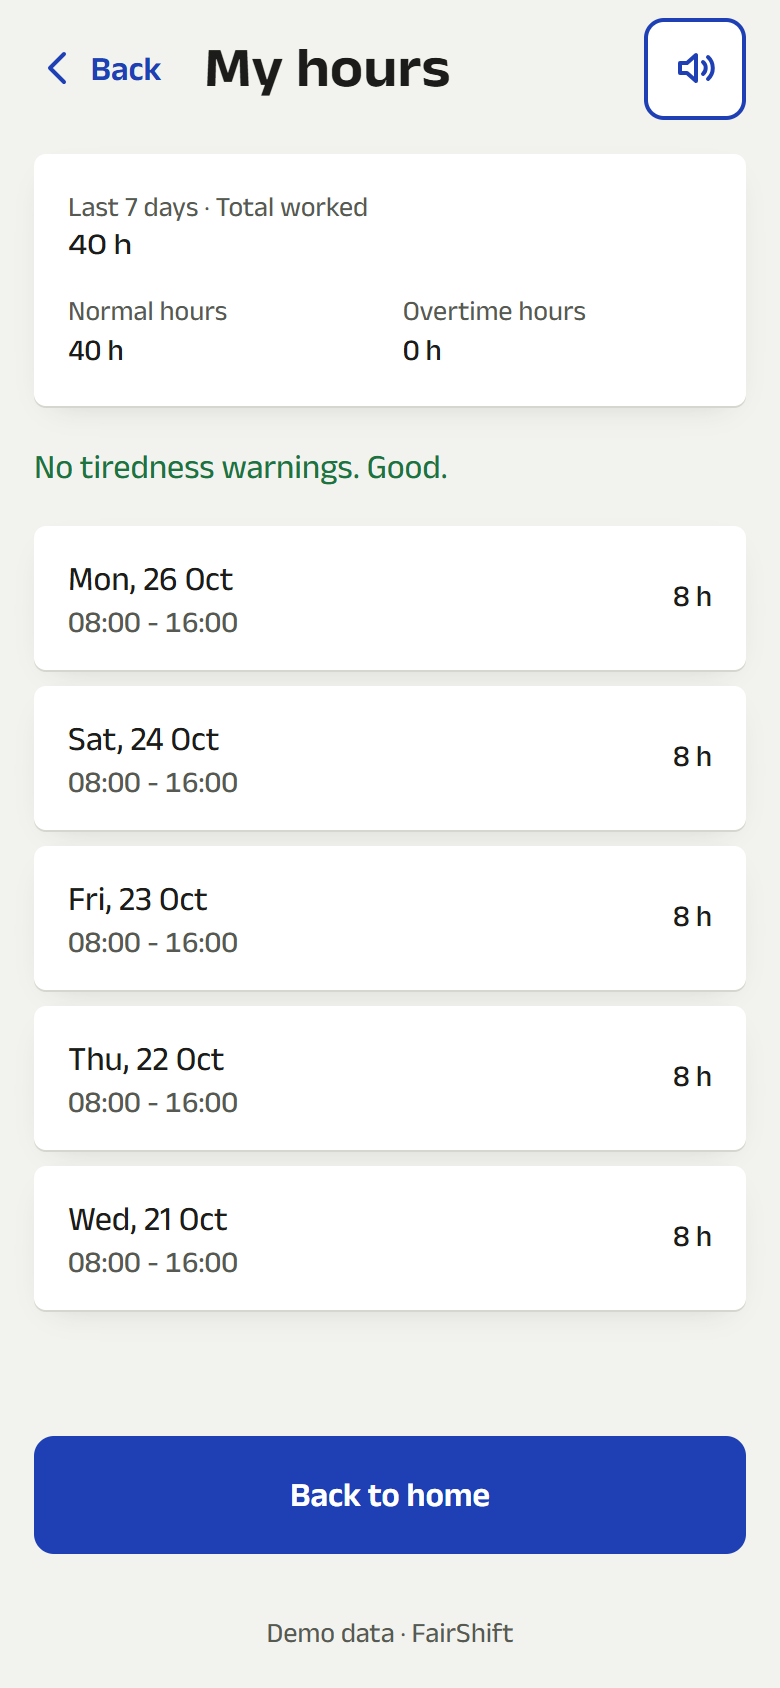
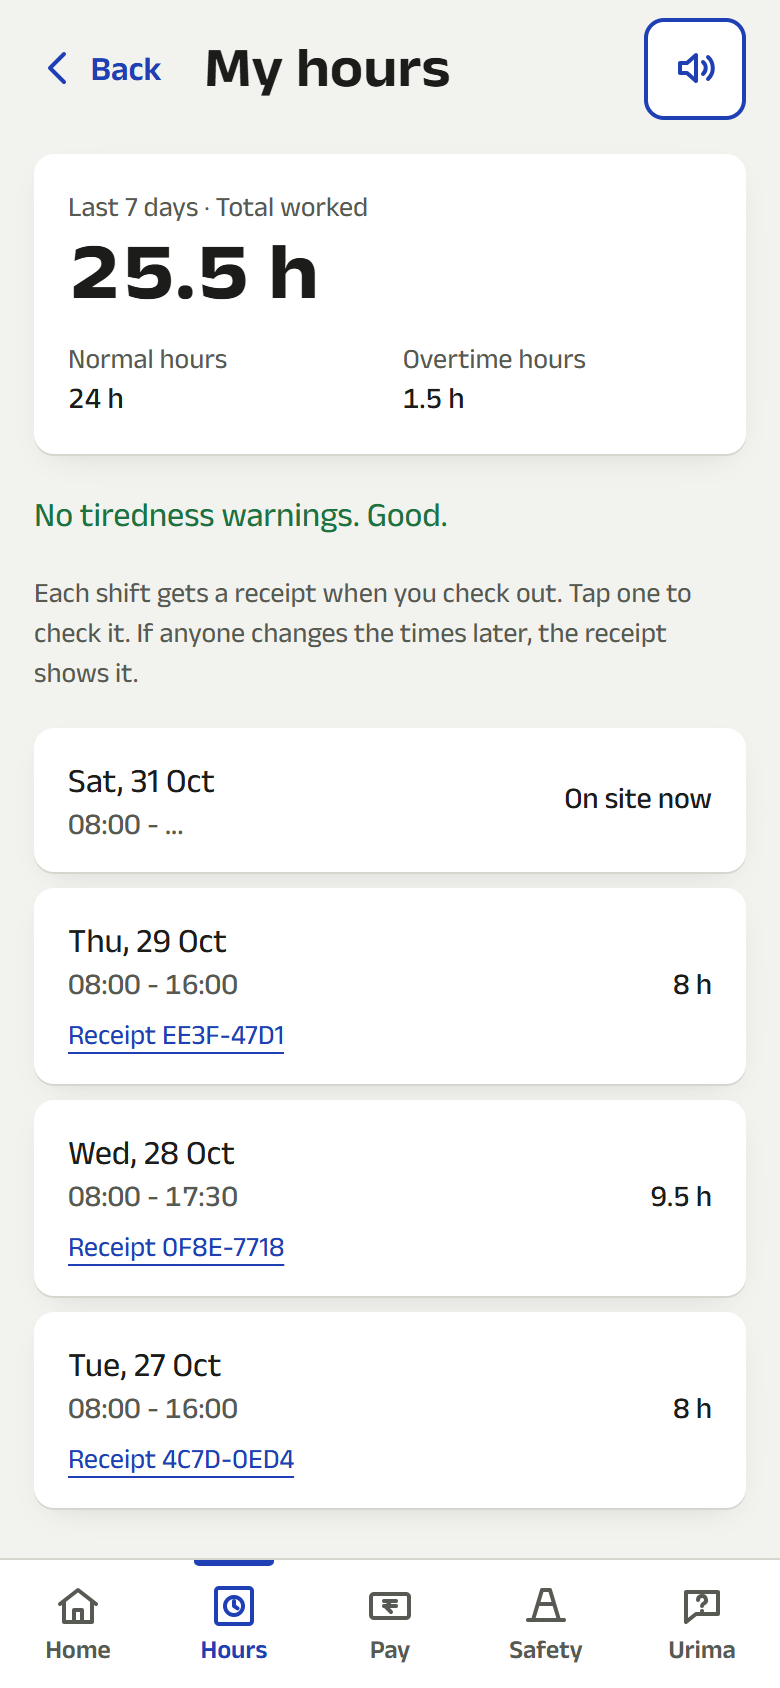
Fresh screenshots of the current interface and fuller key prompts
Every README screenshot is retaken from a production build with seeded
demo data: the worker app in Hindi, Tamil and English at 390 px, and the
supervisor console, landing page and gate kiosk on desktop.

prompts.md now covers the finals prompts and quotes the build briefs given
to the coding agent, with links to their full text in docs/build.

Changed region(s): [[0.0308, 0.4313, 0.9538, 0.9858], [0.0308, 0.1232, 0.9231, 0.4005]]

diff --git a/docs/submission/prompts.md b/docs/submission/prompts.md
@@ -1,20 +1,11 @@
 # Key prompts
 
-These are the prompts that shaped FairShift, in the order they were given. They are quoted as typed (some in Hinglish, with an English gloss), then condensed into what each one changed in the app. The full build briefs written from them are in [`docs/build/`](../build/).
+FairShift was built from two kinds of prompts:
 
-## 1. Research before building
+1. **What I typed.** Short prompts, often in Hinglish, quoted as typed with an English gloss. Each is followed by what it changed in the app.
+2. **Build briefs for the coding agent.** Long, precise briefs written from those prompts and given to the Antigravity agent (`agy`), which split each one across parallel subagents. Excerpts are in [section 7](#7-build-briefs-given-to-the-antigravity-agent); the full briefs are in [`docs/build/`](../build/).
 
-> "search the entire github for promptwars, and jo bhi team agar win ki ho, ya best project ho"
-> _(find every PromptWars team that won, or the best projects)_
-
-**What it changed:** before any code, we studied how earlier winners were scored. That produced the six-criteria map in `docs/promptwars-winners-research.md`: code quality, security, efficiency, testing, accessibility and problem alignment.
-
-> "docs mei pdf daala hai wo bhi dekh le"
-> _(also read the PDFs in docs)_
-
-**What it changed:** the problem statement and the submission guide became the spec, covering worker and admin UIs, 3+ features and 2+ sectors.
-
-## 2. Decide the architecture and the UI first
+## 1. Decide the architecture and the UI first
 
 > "pehle plan kar, mujhe architectural decision le, and build phases ka decision le, ui ka le. then we would build it. google cloud run pe kya deploy ho skta, full nextjs with workers ho sakte hai, ya hum better backend banaye"
 > _(plan first: decide the architecture, the build phases and the UI, then build; can a full Next.js app run on Cloud Run, or do we need a separate backend?)_
@@ -26,12 +17,12 @@ These are the prompts that shaped FairShift, in the order they were given. They 
 
 **What it changed:** the "honest muster roll" design system in `DESIGN.md` and `docs/design-system.md`: rubber stamps, a register grid, Anek type for Indic scripts, a ban list of generic AI-UI patterns, and no animation library on worker phones.
 
-## 3. Build with agents in parallel
+## 2. Build with agents in parallel
 
 > "/agy ko build krne ka poora kaam dede ... usko boldena ki subagents se kaam karwa le"
 > _(give the whole build to the Antigravity agent and tell it to split the work across subagents)_
 
-**What it changed:** the spec was turned into a build brief with file ownership per agent (`docs/build/AGY_TASK.md`, `OWNERSHIP.md`), so parallel agents never edited the same files.
+**What it changed:** the spec became a build brief with file ownership per agent (`docs/build/AGY_TASK.md`, `OWNERSHIP.md`; see 7.1 and 7.2), so parallel agents never edited the same files.
 
 > "nice, merge everything, check for bugs and errors and do testing and complete the project"
 
@@ -42,19 +33,24 @@ These are the prompts that shaped FairShift, in the order they were given. They 
 - a rate-limit IP spoof
 - overtime counted per ISO week (it had shown 88 h of overtime)
 
-## 4. Improve from the evaluator's feedback
+## 3. Improve from the evaluator's feedback
 
 > "bhai hum 2nd aaye hai. aur better karo"
 > _(we came 2nd; make it better)_
 
-**What it changed:** the per-criterion scores showed Code Quality at 89. `docs/build/AGY_TASK_ROUND2.md` was written to raise only that criterion, without changing behaviour: remove the duplicate REST layer, add strict lint rules and Prettier, and split services from views. Attempt 2 scored **97.15** and ranked **#1**.
+**What it changed:** the per-criterion scores showed Code Quality at 89. A brief for `agy` (7.3) raised only that criterion, without changing behaviour: remove the duplicate REST layer, add strict lint rules and Prettier, and split services from views. Attempt 2 scored **97.15** and ranked **#1**.
 
-## 5. Make it real for the worker
+## 4. Make it real for the worker
 
 > "aur aisa app bana do, ki agar offline bhi hojaye laboru, tab bhi kaam hojaye, and jaise hi net aaye, sab server pe chala jae"
 > _(make it work even when the labourer goes offline, and send everything to the server as soon as the network is back)_
 
-**What it changed:** an IndexedDB outbox. Queued actions keep their original capture time, the server checks it (24 h maximum age, 2-minute clock skew), the QR code is verified at the capture time, and client ids make replays idempotent (`docs/build/AGY_TASK_OFFLINE.md`).
+**What it changed:** an IndexedDB outbox, built from the offline brief (7.4):
+
+- Queued actions keep their original capture time.
+- The server checks that time: at most 24 h old, at most 2 minutes of clock skew.
+- The QR code is verified at the capture time.
+- Client ids make replays idempotent.
 
 > "app ki pwa bana de, logo bana de ... and mobile mei add to homescreen ka button bhi dede"
 > _(make it a PWA with a logo and an add-to-home-screen button)_
@@ -64,22 +60,158 @@ These are the prompts that shaped FairShift, in the order they were given. They 
 > "ai chatbot kaha hai app mei??"
 > _(where is the AI chatbot in the app?)_
 
-**What it changed:** "Ask FairShift" (since renamed Urima). It was deliberately not a free-form chatbot: it is grounded in tools that cannot read anyone else's data (see "Urima" in the README).
+**What it changed:** "Ask FairShift", since renamed Urima. It is deliberately not a free-form chatbot: it is grounded in tools that cannot read anyone else's data (see "Urima" in the README).
 
-## 6. Finals: production-ready for a human panel
+## 5. Finals: production-ready for a human panel
 
 > "first of all gather some context about evaluation from previous chats. do some more research and create a better version of this app. i wanna win and standout. write the best code, with the best test, security, efficiency all those stuff."
 
-**What it changed** (`docs/finals-plan.md`):
+**What it changed** (`docs/finals-plan.md`, P1 to P6):
 
 - **Typed errors:** `AppError` codes replaced string matching, and internals no longer reach the browser.
 - **Validation:** a zod-validated environment and tighter input schemas.
 - **Error pages:** boundaries, a 404 page, loading states and `/api/health`.
-- **Urima (then "Ask FairShift"):** for workers and supervisors, with Gemini function calling, a rule-based fallback in three languages, a circuit breaker and a briefing cache.
+- **Urima:** an assistant for workers and supervisors, with Gemini function calling, a rule-based fallback in three languages, a circuit breaker and a briefing cache.
 - **Efficiency:** the supervisor overview went from about three full data loads per request to one.
 - **Bug fixes:**
   - The offline banner was server-rendered on every worker page.
   - Offline check-out replays lost their original time.
   - The fresh-clone build needed a secret.
-- **Testing:** coverage widened from the rule engines to all server code (361 tests, 93% statements), with the jsdom and node projects split.
+- **Testing:** coverage widened from the rule engines to all server code, with the jsdom and node projects split.
 - **Delivery:** `SECURITY.md`, Docker, CodeQL, Dependabot and a rewritten README.
+
+## 6. Finals: code quality, protection for the worker, and the interface
+
+> "they would still use the ai to score us. so based on the 6 fields, have you touched 100% in all? maybe? our lowest was the code quality."
+
+**What it changed:**
+
+- The console views were split into smaller modules.
+- Repositories got full types.
+- One shared severity scale is used everywhere.
+- Record ids became UUIDs.
+
+**Worker-protection features** were added in the same phase (`docs/finals-plan.md`, P7 to P10):
+
+- Workers can raise a pay question. It closes only when both sides agree, and there is a deadline for the employer to answer.
+- Overtime rules are versioned, with a legal floor of 2×.
+- A "wages paid" record is checked against the payslip.
+- Each shift is sealed with a signed receipt that anyone can verify.
+- When the employer misses the deadline, the worker gets a printable letter to the labour office in English, Hindi or Tamil. It cites the Code on Wages and lists the shifts with their receipt codes.
+
+> "review all the app screenshot and think if our UI is best or not? i think we need an upgrade"
+
+**What it changed** (P11):
+
+- **Worker app:**
+  - A bottom tab bar.
+  - A home screen built around today's shift: a ticket with a live clock, a "waiting for you" list and a 7-day muster strip.
+- **Console:**
+  - Opens with a "Needs action" list.
+  - The navigation rail is grouped.
+  - Pay is split into tabs.
+- **Landing:** real product screenshots.
+- **Fixes:**
+  - A hydration error.
+  - Phone-number boxes that wrapped at 390 px.
+
+> "also we have to make a video of our project. so you make a reel or our project"
+
+**What it changed:** a short demo video of the worker app in Hindi and Tamil and of the supervisor console, captured from the running app.
+
+> "vercel pe sab live krde, single commit ... and logically soch ke"
+> _(make everything live on Vercel, in a single commit, and think it through)_
+
+**What it changed:** the release was checked, committed and deployed. The worker screens now stream into a skeleton, so moving between them never blocks on the server.
+
+## 7. Build briefs given to the Antigravity agent
+
+Each brief below was given to `agy` as its prompt. Every brief:
+
+- names the files each subagent owns;
+- lists hard rules (no installs, commits, deploys or secrets);
+- ends with a definition of done that the agent had to run and report.
+
+The quotes are excerpts; the full text is linked.
+
+### 7.1 Build FairShift end to end: [`AGY_TASK.md`](../build/AGY_TASK.md)
+
+> You are the lead engineer. **Use your subagents / parallel agents to split the work** (see section 6). You integrate and verify their output. Every decision below is already MADE. Do not re-open it. Where something is truly unspecified, choose the option that scores best on the six AI-evaluator criteria (section 1), and note it in `docs/BUILD_PROGRESS.md`.
+>
+> **Concretely:**
+>
+> - Every number shown comes from pure, unit-tested domain functions, never from the LLM.
+> - The app works fully with **no cloud credentials** (in-memory data + deterministic AI fallbacks).
+> - No secret, key or credential anywhere in the repo.
+> - Every PS requirement is visibly met and named in the README.
+>
+> **No fake data shown as real.** Seed data is labelled "Demo data". No count-up animations.
+>
+> Agree the shared types (`src/shared/types.ts`) and the repo interface **before** fanning out, so that C and D can code against them.
+>
+> If you sense you are running low on budget, **write the progress file first**, so the orchestrator can resume.
+
+Sections:
+
+- the fixed stack
+- the folder layout
+- the domain engines, with at least 90% coverage
+- the worker app at 360 px
+- the admin console and the landing page
+- the design ban list
+- a five-subagent split (domain, data/services/auth/AI, worker UI, admin UI, infra/docs)
+- the definition of done: typecheck, lint, tests with coverage, build, and a repo under 10 MB
+
+The stack in this brief was Cloud Run, Firestore and Vertex AI. The app later moved to Vercel, MongoDB Atlas and a Gemini API key.
+
+### 7.2 Parallel ownership: [`OWNERSHIP.md`](../build/OWNERSHIP.md)
+
+> Three agents work in the same working tree at the same time. **Only edit files you own.** If you need something from a file you do not own, read it and code against it. Do not edit it.
+>
+> **Data access from UI:** pages use **Server Components + Server Actions** that call `src/server/services/*`.
+>
+> **Shared UI primitives:** Claude W builds `src/components/ui/*` (`Stamp`, `Button`, `ReadAloud`, `PinPad`, `Tile`) **first**. Claude A imports them and does not fork them.
+
+### 7.3 Raise Code Quality without regressing anything: [`AGY_TASK_ROUND2.md`](../build/AGY_TASK_ROUND2.md)
+
+> An AI evaluator scored it **96.94/100** [...] The next attempt **replaces** this score. So:
+>
+> - **Do not add features.**
+> - **Do not change behaviour, numbers or UI looks.**
+> - **Do not touch performance-sensitive code paths** beyond what is listed.
+>
+> The goal is cleaner, more consistent, more maintainable code, and fixing the small known security and accessibility gaps.
+>
+> **Use 4 parallel subagents.** Each owns the listed files; do not edit another subagent's files. The lead integrates and runs the final checks.
+
+The four subagents were:
+
+- **A** removed the duplicate REST layer and dead code.
+- **B** set up consistent formatting and lint rules.
+- **C** made a readability pass on the server layer.
+- **D** closed small security gaps and the four real axe-core findings from production.
+
+### 7.4 Offline-first worker app: [`AGY_TASK_OFFLINE.md`](../build/AGY_TASK_OFFLINE.md)
+
+> **Goal:** a construction worker with no signal can still check in and check out, report a hazard, give feedback, and view the pages they last saw. Everything they did offline is sent to the server **automatically as soon as the network returns**, with the **original time** it happened.
+>
+> `validateCapturedAt(capturedAtIso, nowMs)`. It accepts only when the time is ≤ now + 2 min (clock skew) and ≥ now − 24 h.
+>
+> If a record with the same `clientId` already exists [...] return the existing record as success. A replayed sync must never create duplicates. Feedback must stay anonymous: `clientId` is a random UUID, never derived from the worker.
+
+The work was split three ways: server validation, the client outbox and sync UI, and a service worker that serves the last-seen pages offline.
+
+### 7.5 Four targeted bug fixes: [`AGY_TASK_FIXES.md`](../build/AGY_TASK_FIXES.md)
+
+> Run **4 subagents in parallel, one per fix below.** Each fix touches different files. **Change only the files named in each fix** (plus new test files).
+>
+> **Fix 1: PII scrubbing misses first names and Hindi/Tamil names.** `scrubPii` only matches full roster names using `\b…\b`. `\b` does not work for Devanagari or Tamil, so Hindi/Tamil comments are never name-scrubbed.
+>
+> **Fix 2: feedback heatmap mixes weeks.** A team can reach the k = 3 anonymity threshold by mixing weeks.
+
+The other two fixes:
+
+- **Fix 3:** scanning the gate QR while logged out lost the 60-second code. Login now returns to the scanned link, and only to `/w/` paths, so it cannot be used as an open redirect.
+- **Fix 4:** lowering a hazard's severity could quietly take it out of escalation. An escalated hazard can now be raised but not lowered.
+
+Each fix came with tests. For example, a first name alone is scrubbed but "Rameshwaram" is not, and lowering an escalated hazard is rejected.
